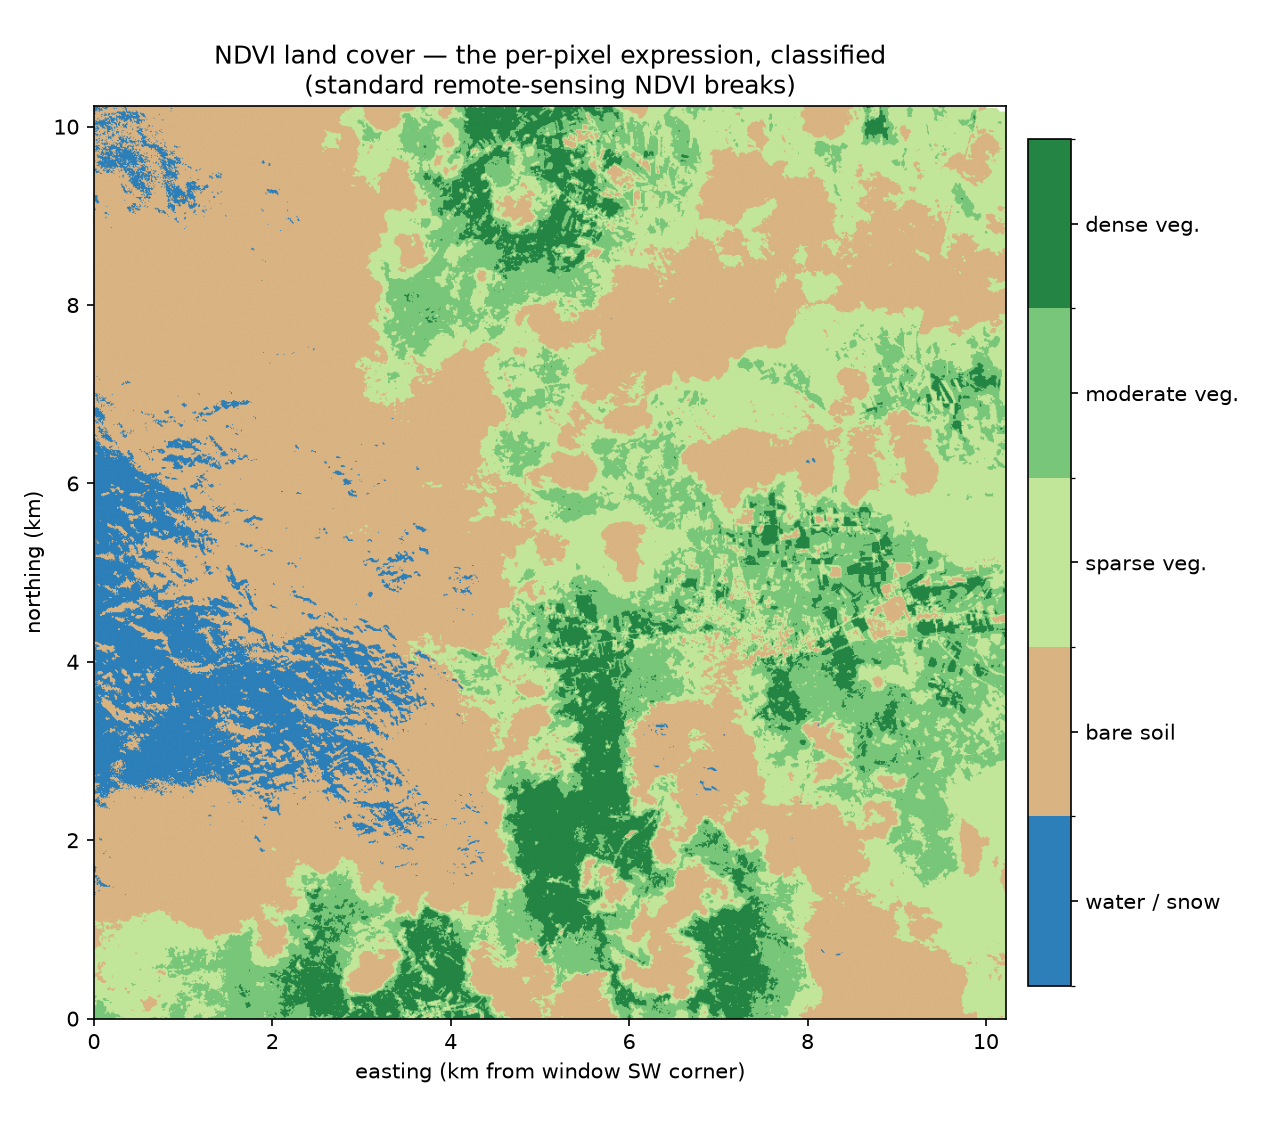
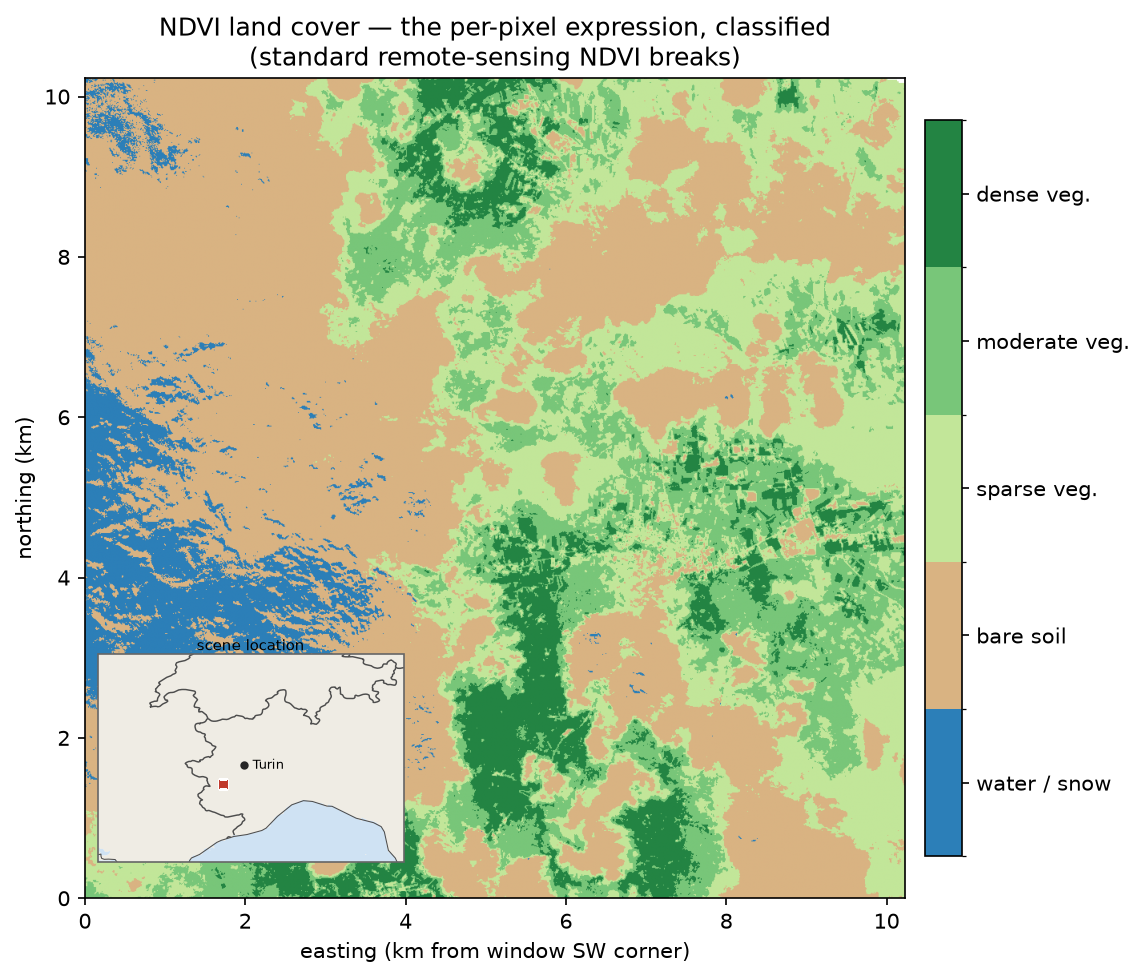
docs(cookbook): embed NDVI plots with locator inset; STAC + adaptation notes
NDVI cookbook:
- plots.py: add a cartopy locator inset (country borders + coastline) to both
  maps, marking the ~10 km window's footprint in Piedmont, NW Italy near the
  French/Alpine border. pyproj converts the UTM extent to lon/lat; cartopy/pyproj
  are optional (maps still render without the inset). No border crosses a 10 km
  tile, so the geographic context lives in the inset, not on the raster.
- README.md: embed the three plots inline with per-image descriptions.

Docs:
- cookbook-adaptation.md: broaden framing; add a "Shipped adaptations" section
  recording the NDVI recipe (from xarray-sql) and how its remote-read spike
  reproduces the NASA remote caveat.
- stac-support-assessment.md (new): assess STAC support — recommend keeping it in
  the discovery/preprocessing layer, not registering tables via STAC in the core.

diff --git a/cookbook/ndvi/plots.py b/cookbook/ndvi/plots.py
@@ -15,22 +15,43 @@ offline and reproducible — no remote scan. The CSV is the frozen result of
                            table IS the scene.
   2. ndvi_hist.png       — distribution of NDVI over the valid pixels, with the
                            mean and the usual land-cover thresholds marked.
-  3. ndvi_landcover.png  — NDVI binned into land-cover classes (water/built,
+  3. ndvi_landcover.png  — NDVI binned into land-cover classes (water/snow,
                            bare soil, sparse, moderate, dense vegetation): the
                            per-pixel expression turned into a classified map.
 
+Both maps carry a LOCATOR INSET with country borders + coastline (cartopy) so the
+~10 km window is placed geographically — it sits in Piedmont, NW Italy, near the
+French/Alpine border. (No border crosses a 10 km tile, so the context belongs in
+the inset, not on the raster.) cartopy/pyproj are optional: without them the maps
+still render, just without the inset.
+
 Usage:
-    uv run --with pandas --with numpy --with matplotlib \
+    uv run --with pandas --with numpy --with matplotlib --with cartopy --with pyproj \
         cookbook/ndvi/plots.py
 """
 
 import argparse
+import warnings
 from pathlib import Path
 
+import matplotlib.patches as mpatches
 import matplotlib.pyplot as plt
 import numpy as np
 import pandas as pd
 from matplotlib.colors import BoundaryNorm, ListedColormap
+
+# Geographic locator is optional — degrade gracefully if cartopy/pyproj absent.
+try:
+    import cartopy.crs as ccrs
+    import cartopy.feature as cfeature
+    from pyproj import Transformer
+
+    _HAVE_GEO = True
+except ImportError:  # pragma: no cover
+    _HAVE_GEO = False
+
+UTM_EPSG = 32632          # scene CRS: WGS 84 / UTM zone 32N (from the store attrs)
+TURIN = (7.686, 45.070)   # city marker for orientation in the locator
 
 # Land-cover NDVI break points (standard remote-sensing convention) and the
 # labels/colors for the classified map. Edges feed both the histogram guides and
@@ -56,6 +77,43 @@ def to_grid(df):
     return g.to_numpy(), extent
 
 
+def scene_lonlat_bounds(df):
+    """Convert the window's UTM (x, y) extent to lon/lat corners for the locator.
+    Returns (lon_w, lon_e, lat_s, lat_n), or None if pyproj/cartopy are absent."""
+    if not _HAVE_GEO:
+        return None
+    t = Transformer.from_crs(UTM_EPSG, 4326, always_xy=True)
+    xs, ys = df["x"], df["y"]
+    lon0, lat0 = t.transform(xs.min(), ys.min())
+    lon1, lat1 = t.transform(xs.max(), ys.max())
+    return min(lon0, lon1), max(lon0, lon1), min(lat0, lat1), max(lat0, lat1)
+
+
+def add_locator(fig, bounds, rect=(0.135, 0.135, 0.24, 0.24)):
+    """Draw a small regional map (country borders + coastline) with the scene
+    footprint marked, so the ~10 km window is placed geographically. No-op when
+    cartopy/pyproj are unavailable."""
+    if not _HAVE_GEO or bounds is None:
+        return
+    lon_w, lon_e, lat_s, lat_n = bounds
+    ax = fig.add_axes(rect, projection=ccrs.PlateCarree())
+    ax.set_extent([5.0, 10.6, 43.3, 47.1], crs=ccrs.PlateCarree())
+    ax.add_feature(cfeature.LAND, facecolor="#efece4")
+    ax.add_feature(cfeature.OCEAN, facecolor="#cfe2f3")
+    ax.add_feature(cfeature.BORDERS, lw=0.7, edgecolor="0.3")
+    ax.coastlines("50m", lw=0.5, color="0.3")
+    # The footprint is tiny at this scale — draw the box AND a centroid marker.
+    ax.add_patch(mpatches.Rectangle((lon_w, lat_s), lon_e - lon_w, lat_n - lat_s,
+                                    fill=False, edgecolor="#c0392b", lw=1.4, zorder=5))
+    ax.plot((lon_w + lon_e) / 2, (lat_s + lat_n) / 2, "s", ms=5,
+            color="#c0392b", mec="white", mew=0.5, zorder=6)
+    ax.plot(*TURIN, "o", ms=3, color="0.15", zorder=6)
+    ax.text(TURIN[0] + 0.15, TURIN[1], "Turin", fontsize=6, va="center", zorder=6)
+    ax.set_title("scene location", fontsize=7, pad=2)
+    for s in ax.spines.values():
+        s.set_edgecolor("0.4")
+
+
 def plot_map(df, out):
     Z, extent = to_grid(df)
     fig, ax = plt.subplots(figsize=(8.5, 7.5))
@@ -67,8 +125,8 @@ def plot_map(df, out):
     ax.set_ylabel("northing (km)")
     cb = fig.colorbar(im, ax=ax, pad=0.02, shrink=0.85)
     cb.set_label("NDVI = (NIR − Red) / (NIR + Red)")
-    fig.tight_layout()
-    fig.savefig(out, dpi=150)
+    add_locator(fig, scene_lonlat_bounds(df))
+    fig.savefig(out, dpi=150, bbox_inches="tight")
     print(f"wrote {out}")
 
 
@@ -112,8 +170,8 @@ def plot_landcover(df, out):
                       ticks=[(a + b) / 2 for a, b in
                              zip(CLASS_EDGES[:-1], CLASS_EDGES[1:])])
     cb.ax.set_yticklabels(CLASS_NAMES)
-    fig.tight_layout()
-    fig.savefig(out, dpi=150)
+    add_locator(fig, scene_lonlat_bounds(df))
+    fig.savefig(out, dpi=150, bbox_inches="tight")
     print(f"wrote {out}")
 
 

diff --git a/docs/stac-support-assessment.md b/docs/stac-support-assessment.md
@@ -1,0 +1,107 @@
+# STAC Support — Design Assessment
+
+Should zarr-datafusion add STAC support — i.e. **registering a table via STAC**
+(`CREATE EXTERNAL TABLE … LOCATION 'stac://…'`)? Captured 2026-07-11, prompted by
+the NDVI cookbook recipe, whose remote source (EOPF Sentinel-2) is discovered
+through a STAC catalog.
+
+## TL;DR
+
+**Don't put STAC in the core / as a table-registration mechanism.** A thin
+resolver is cheap but low-value; the version that *would* be valuable
+(registering a whole collection as one cube) duplicates the virtual-Zarr
+infrastructure we already ship and drags reprojection/mosaicking — out of scope
+for a "flatten one grid to a table" engine — into the core. Keep STAC in the
+**discovery / preprocessing layer** (next to `scripts/gen_ndvi_scene.py`), not
+in the storage format path.
+
+## Background: STAC vs. the long URL
+
+STAC is a **discovery** API: a search (collection + bbox + datetime) returns
+*items*, each with *assets* (hrefs). It is where `gen_ndvi_scene.py` gets the
+Sentinel-2 store URL — but STAC only *hands back* the provider's real object key;
+it doesn't shorten or lengthen it. The long EOPF path is EODC's Ceph bucket/key
+layout plus the standard Sentinel-2 product name, not a STAC artifact. So
+discovery (STAC) and storage (the Zarr store) are cleanly separable, which is the
+whole reason STAC needn't live in the reader.
+
+## Two very different "STAC supports"
+
+### Level A — resolver: one STAC query → one href → open
+
+```sql
+CREATE EXTERNAL TABLE s STORED AS ZARR
+  LOCATION 'stac://stac.core.eopf.eodc.eu/sentinel-2-l2a?bbox=...&datetime=...'
+  OPTIONS ('asset' 'product', 'group' 'measurements/reflectance/r10m');
+```
+
+Essentially a URL-shortener. The entire benefit is avoiding a copy-paste of one
+long href. It buys real problems in exchange:
+
+- A **network catalog search at DDL/plan time** — latency, catalog auth, and a
+  heavy STAC + HTTP-JSON dependency pulled into the core.
+- **Non-determinism.** A search returns *N* items; `max_items=1` picks an
+  arbitrary scene, and the catalog can return different results later — quietly
+  breaking reproducibility, which is the property the local-sample cookbook
+  recipes exist to guarantee.
+
+Low value, awkward semantics.
+
+### Level B — collection as a table: one STAC query → *many* items → one cube
+
+The genuinely powerful idea: "every Sentinel-2 scene over this bbox across this
+date range" as a single queryable table, with `time` / `tile` as added
+dimensions. This is what STAC is actually *for*.
+
+But it is a poor fit for **this** engine, for a structural reason: those items do
+**not** form one Cartesian grid. Different scenes are different **UTM zones/tiles**,
+different footprints, different times. Unioning them into a cube requires
+**mosaicking, reprojection, and resampling** (warping across CRSs) — squarely the
+"server-side subsetting / reprojection doesn't fit the flatten-a-grid model"
+category already classified as **Tier 4 (out of scope)** in
+[`cookbook-adaptation.md`](cookbook-adaptation.md). It would turn a Zarr↔SQL
+bridge into a geospatial warp engine.
+
+## The valuable version already has a home
+
+"Many scattered files → one queryable cube" is exactly what **VirtualiZarr /
+icechunk / kerchunk** do — which we already support (CIRA, ERSST). The idiomatic
+pipeline is:
+
+> STAC search → virtualize the collection into a reference store
+> (`virtualizarr`, `odc-stac`, `stac-geoparquet`) → point the **existing** reader
+> at that one store.
+
+So STAC belongs beside the preprocessing generators, not in the reader. Building
+Level B into the core would reimplement the concat/alignment the virtual-Zarr
+path gives for free — and still leave the CRS/mosaic problem unsolved.
+
+## Recommendation
+
+- **Keep STAC as an optional helper, not a `LOCATION` scheme.** The cookbook
+  pattern — Python resolves the href, the reader opens the store — is the right
+  seam (see `scripts/gen_ndvi_scene.py`).
+- If ergonomics matter, the most to build is a tiny **`zarr-cli stac-resolve
+  <query>`** that just **prints the asset href** to paste into `LOCATION`. That
+  captures ~all of Level A's value with none of the DDL-time coupling or
+  non-determinism. ~30 lines, optional, no core dependency.
+- For the **NASA Tier-1 recipes** (which also start from discovery), reach for
+  STAC → virtual-Zarr, then the existing filter-pushdown read — the reusable story.
+- Revisit an in-core `stac://` scheme **only if** the project scope explicitly
+  broadens from "SQL over a Zarr store" to "SQL over a geospatial catalog" —
+  which, per `CLAUDE.md`, it currently is not.
+
+## Where STAC *would* still help
+
+Discovery ergonomics for cookbook/examples and for any recipe that starts from a
+catalog query rather than a known store. That value is fully captured by an
+optional resolver helper; it does not require — and is not improved by — putting
+STAC in the storage core.
+
+## Related
+
+- [`cookbook-adaptation.md`](cookbook-adaptation.md) — remote-read caveat; NASA
+  Tier-1 (virtual-Zarr) recipes share the discovery→virtualize→read shape; Tier-4
+  scope boundary (reprojection/mosaic).
+- [`../cookbook/ndvi/`](../cookbook/ndvi/) and `scripts/gen_ndvi_scene.py` — the
+  recipe whose STAC-resolved remote source prompted this assessment.

diff --git a/docs/cookbook-adaptation.md b/docs/cookbook-adaptation.md
@@ -1,7 +1,14 @@
-# NASA Openscapes Cookbook — Adoption Assessment
+# Cookbook Adaptation Assessment
 
-Assessment of the [NASA Earthdata Cloud Cookbook](https://nasa-openscapes.github.io/earthdata-cloud-cookbook/tutorials/)
-tutorials for expanding the zarr-datafusion `cookbook/`. Captured 2026-07-10.
+Assessment of external cookbooks/tutorials for expanding the zarr-datafusion
+`cookbook/`. The bulk of this doc evaluates the [NASA Earthdata Cloud Cookbook](https://nasa-openscapes.github.io/earthdata-cloud-cookbook/tutorials/)
+(candidates, not yet shipped; captured 2026-07-10); the
+[Shipped adaptations](#shipped-adaptations) section at the end tracks recipes
+already adapted from other sources.
+
+# NASA Openscapes Cookbook
+
+Assessment of the NASA Earthdata Cloud Cookbook tutorials.
 
 ## Key structural fact
 
@@ -64,8 +71,42 @@ tokens) and assume in-region `us-west-2` S3 access. Our remote reader currently
 opens stores anonymously — EDL-credential support (or pre-staged public
 mirrors) is needed before these run end-to-end.
 
+# Shipped adaptations
+
+Recipes already adapted from cookbooks *other* than NASA Openscapes.
+
+## NDVI — xarray-sql geospatial benchmark
+
+[`cookbook/ndvi/`](../cookbook/ndvi/) adapts
+[xarray-sql's `benchmarks/geospatial/01_ndvi.py`](https://github.com/xqlsystems/xarray-sql/blob/main/benchmarks/geospatial/01_ndvi.py)
+(sibling to the `02_climatology.py` we already mirror in `cookbook/climatology/`).
+It computes NDVI `(b08 - b04) / (b08 + b04)` as one **per-pixel** SQL expression
+over a 1024×1024 Sentinel-2 L2A window — the *projection* counterpart to the
+aggregation recipes, matching xarray to 4 decimals.
+
+**Relevance to the NASA caveat above.** The remote-read spike for this recipe
+concretely reproduced the [Caveat](#recommendation)'s "our remote reader isn't
+ready for these stores" warning — two distinct blockers any NASA Tier-1
+(virtual-Zarr) or Tier-3 (native-Zarr endpoint) recipe will hit:
+
+1. **HTTP object_store can't list a Ceph/S3 endpoint.** Pointing at a group with
+   no group-level consolidated metadata forces a directory listing; the EODC
+   endpoint answered `PROPFIND` with `405 Method Not Allowed`.
+2. **Root-level consolidated `.zmetadata` spans the whole hierarchical product.**
+   The EOPF product's only consolidated metadata sits at the root and mixes
+   10/20/60 m arrays (different shapes, multiple `x`/`y`); the reader folds them
+   into one Cartesian coord cube and overflows the shape product.
+
+Resolution shipped: a local sample store written by
+`scripts/gen_ndvi_scene.py`, which resolves the scene via the same STAC path as
+the benchmark. Making these remote stores work directly (prefix-filtering a
+consolidated `.zmetadata` down to one subgroup; an S3 backend with custom
+endpoint + tenant + anonymous auth) is the reader work that also unblocks the
+NASA Tier-1 recipes.
+
 ## Sources
 
+- [xarray-sql geospatial benchmarks](https://github.com/xqlsystems/xarray-sql/tree/main/benchmarks/geospatial) — source of the shipped NDVI (`01_ndvi.py`) and climatology (`02_climatology.py`) recipes
 - [Earthdata Cloud Clinic](https://nasa-openscapes.github.io/earthdata-cloud-cookbook/tutorials/Earthdata-cloud-clinic.html)
 - [GES DISC MERRA-2 Kerchunk](https://nasa-openscapes.github.io/earthdata-cloud-cookbook/examples/GESDISC/GESDISC_MERRA2_tavg1_2d_flx_Nx__Kerchunk.html)
 - [PO.DAAC ECCO SSH Kerchunk](https://nasa-openscapes.github.io/earthdata-cloud-cookbook/examples/PODAAC/PODAAC_ECCO_SSH__Kerchunk.html)

diff --git a/cookbook/ndvi/README.md b/cookbook/ndvi/README.md
@@ -116,23 +116,45 @@ WHERE NOT isnan(b08 - b04);
 
 ## Plots
 
-[`plots.py`](plots.py) displays the recipe output — fully offline, reading the
-frozen `ndvi.csv.gz` (the `ndvi.sql` result; regenerate with the `COPY … STORED
-AS CSV` shown at the top of the script, then `gzip -9`):
+[`plots.py`](plots.py) displays the recipe output — reading the frozen
+`ndvi.csv.gz` (the `ndvi.sql` result; regenerate with the `COPY … STORED AS CSV`
+shown at the top of the script, then `gzip -9`). The two maps carry a **locator
+inset with country borders + coastline** (cartopy) so the ~10 km window is placed
+geographically — it sits in **Piedmont, NW Italy, near the French/Alpine border**.
+No border crosses a 10 km tile, so that context lives in the inset, not on the
+raster. cartopy/pyproj are optional: without them the maps still render, minus the
+inset.
 
 ```bash
-uv run --with pandas --with numpy --with matplotlib cookbook/ndvi/plots.py
+uv run --with pandas --with numpy --with matplotlib --with cartopy --with pyproj \
+    cookbook/ndvi/plots.py
 ```
 
-| output | what it shows |
-|---|---|
-| `ndvi_map.png` | the NDVI raster — the flat `(x, y, ndvi)` table **pivoted back into the 2D scene**. The whole point: a Zarr scene *is* a table, and the table *is* the scene. |
-| `ndvi_hist.png` | NDVI distribution over the valid pixels, with the mean and the standard land-cover thresholds. |
-| `ndvi_landcover.png` | NDVI binned into land-cover classes (water/snow, bare soil, sparse/moderate/dense vegetation) — the per-pixel expression turned into a classified map. |
+### NDVI raster — the table *is* the scene
 
-The window sits in the Alpine foothills near Turin: green agricultural valleys
-and field parcels, bare/rocky slopes, and snow on the high peaks (which reads
-NDVI < 0, same as water).
+![NDVI raster over the Sentinel-2 window, with a locator inset showing its position in NW Italy](ndvi_map.png)
+
+The flat `(x, y, ndvi)` table pivoted back into the 2D scene on a red→green
+vegetation ramp — the whole point of the recipe: a Zarr scene *is* a table, and
+the table *is* the scene. Green agricultural valleys and field parcels, bare/rocky
+slopes to the west, and snow on the high peaks (which reads NDVI < 0, same as
+water). The inset marks the footprint SW of Turin.
+
+### NDVI distribution
+
+![Histogram of NDVI over the valid pixels with the mean and land-cover thresholds marked](ndvi_hist.png)
+
+NDVI over the 1,048,496 valid pixels: a bare-soil/snow peak near 0 and a long
+vegetation tail out to ~0.8, with the mean (0.2354) and the standard land-cover
+thresholds marked.
+
+### NDVI land cover — the per-pixel expression, classified
+
+![Classified land-cover map from NDVI breaks, with the same locator inset](ndvi_landcover.png)
+
+The same raster binned into land-cover classes (water/snow, bare soil,
+sparse/moderate/dense vegetation) at the standard remote-sensing NDVI breaks — the
+per-pixel expression turned into a thematic map.
 
 ## Writing results to Parquet
 
